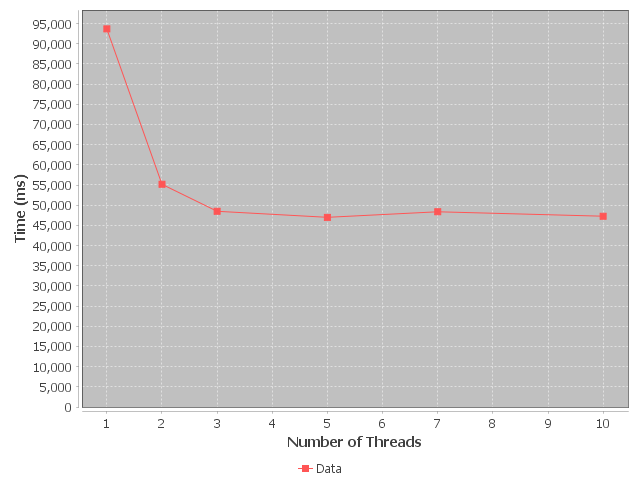
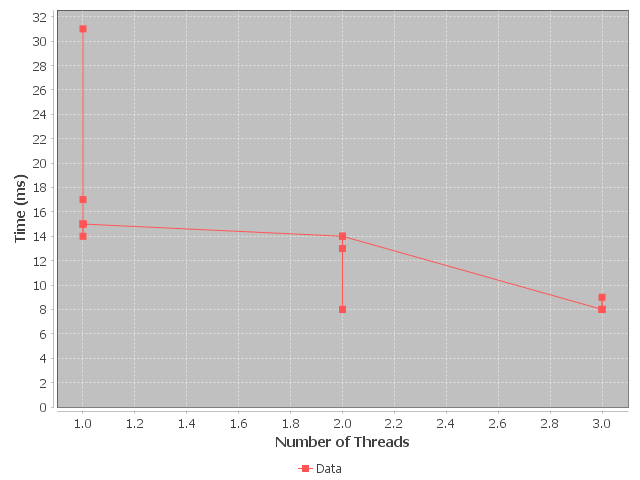
removed some comments

diff --git a/src/MatrixMul.java b/src/MatrixMul.java
@@ -11,7 +11,7 @@ public class MatrixMul {
 	
 	public static void main(String[] args) throws InterruptedException {
 		
-		/*int[] numThreads; 	// numThreads[i] <- number of threads to use for ith multiplication
+		int[] numThreads; 	// numThreads[i] <- number of threads to use for ith multiplication
 		int[] dimA, dimB;	// dim_[0] <- row_dim, dim_[1] <- col_dim
 		String line;  		// buffer for user input
 		Scanner scanner = new Scanner(System.in);
@@ -37,7 +37,7 @@ public class MatrixMul {
 	    // Performs matrix mul. using the number of threads specified in the entries numThreads 
 		XYSeries times = runTest(numThreads, A, B);
 		LinePlot plot = new LinePlot(times);
-		plot.setVisible(true); */
+		plot.setVisible(true); 
 		
 		// Performs unit test to ensure correctness of the product
 		
